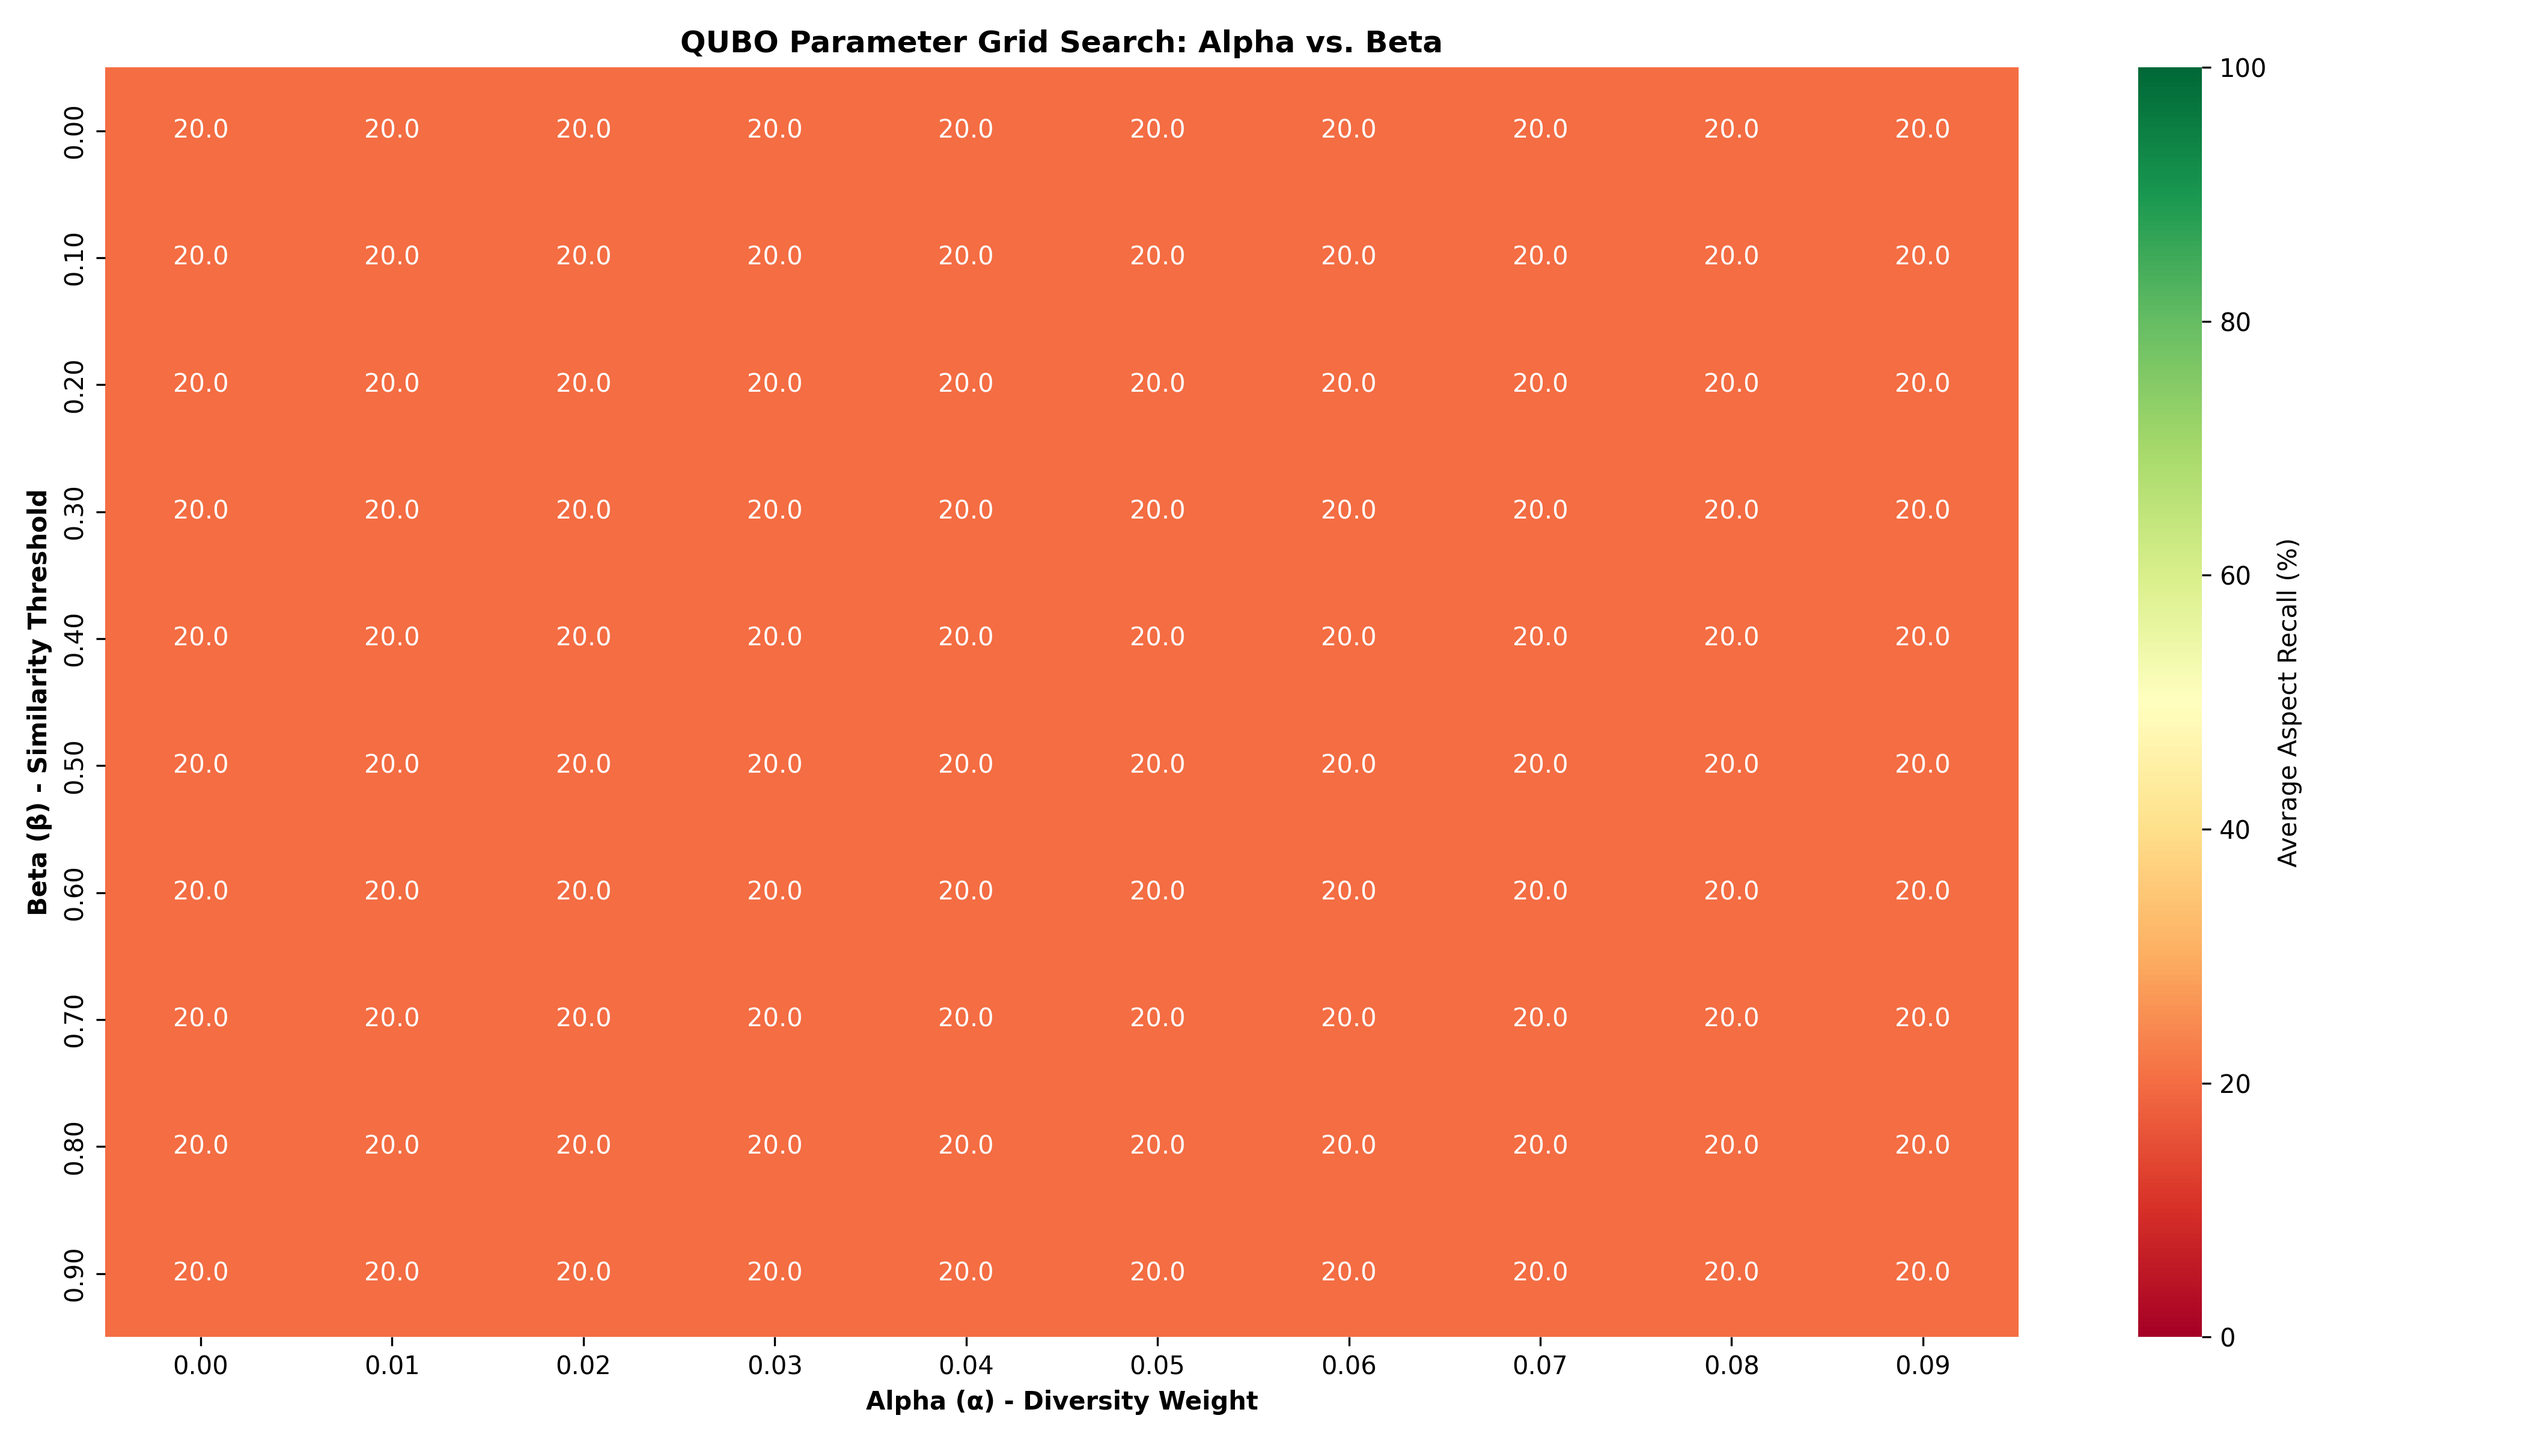
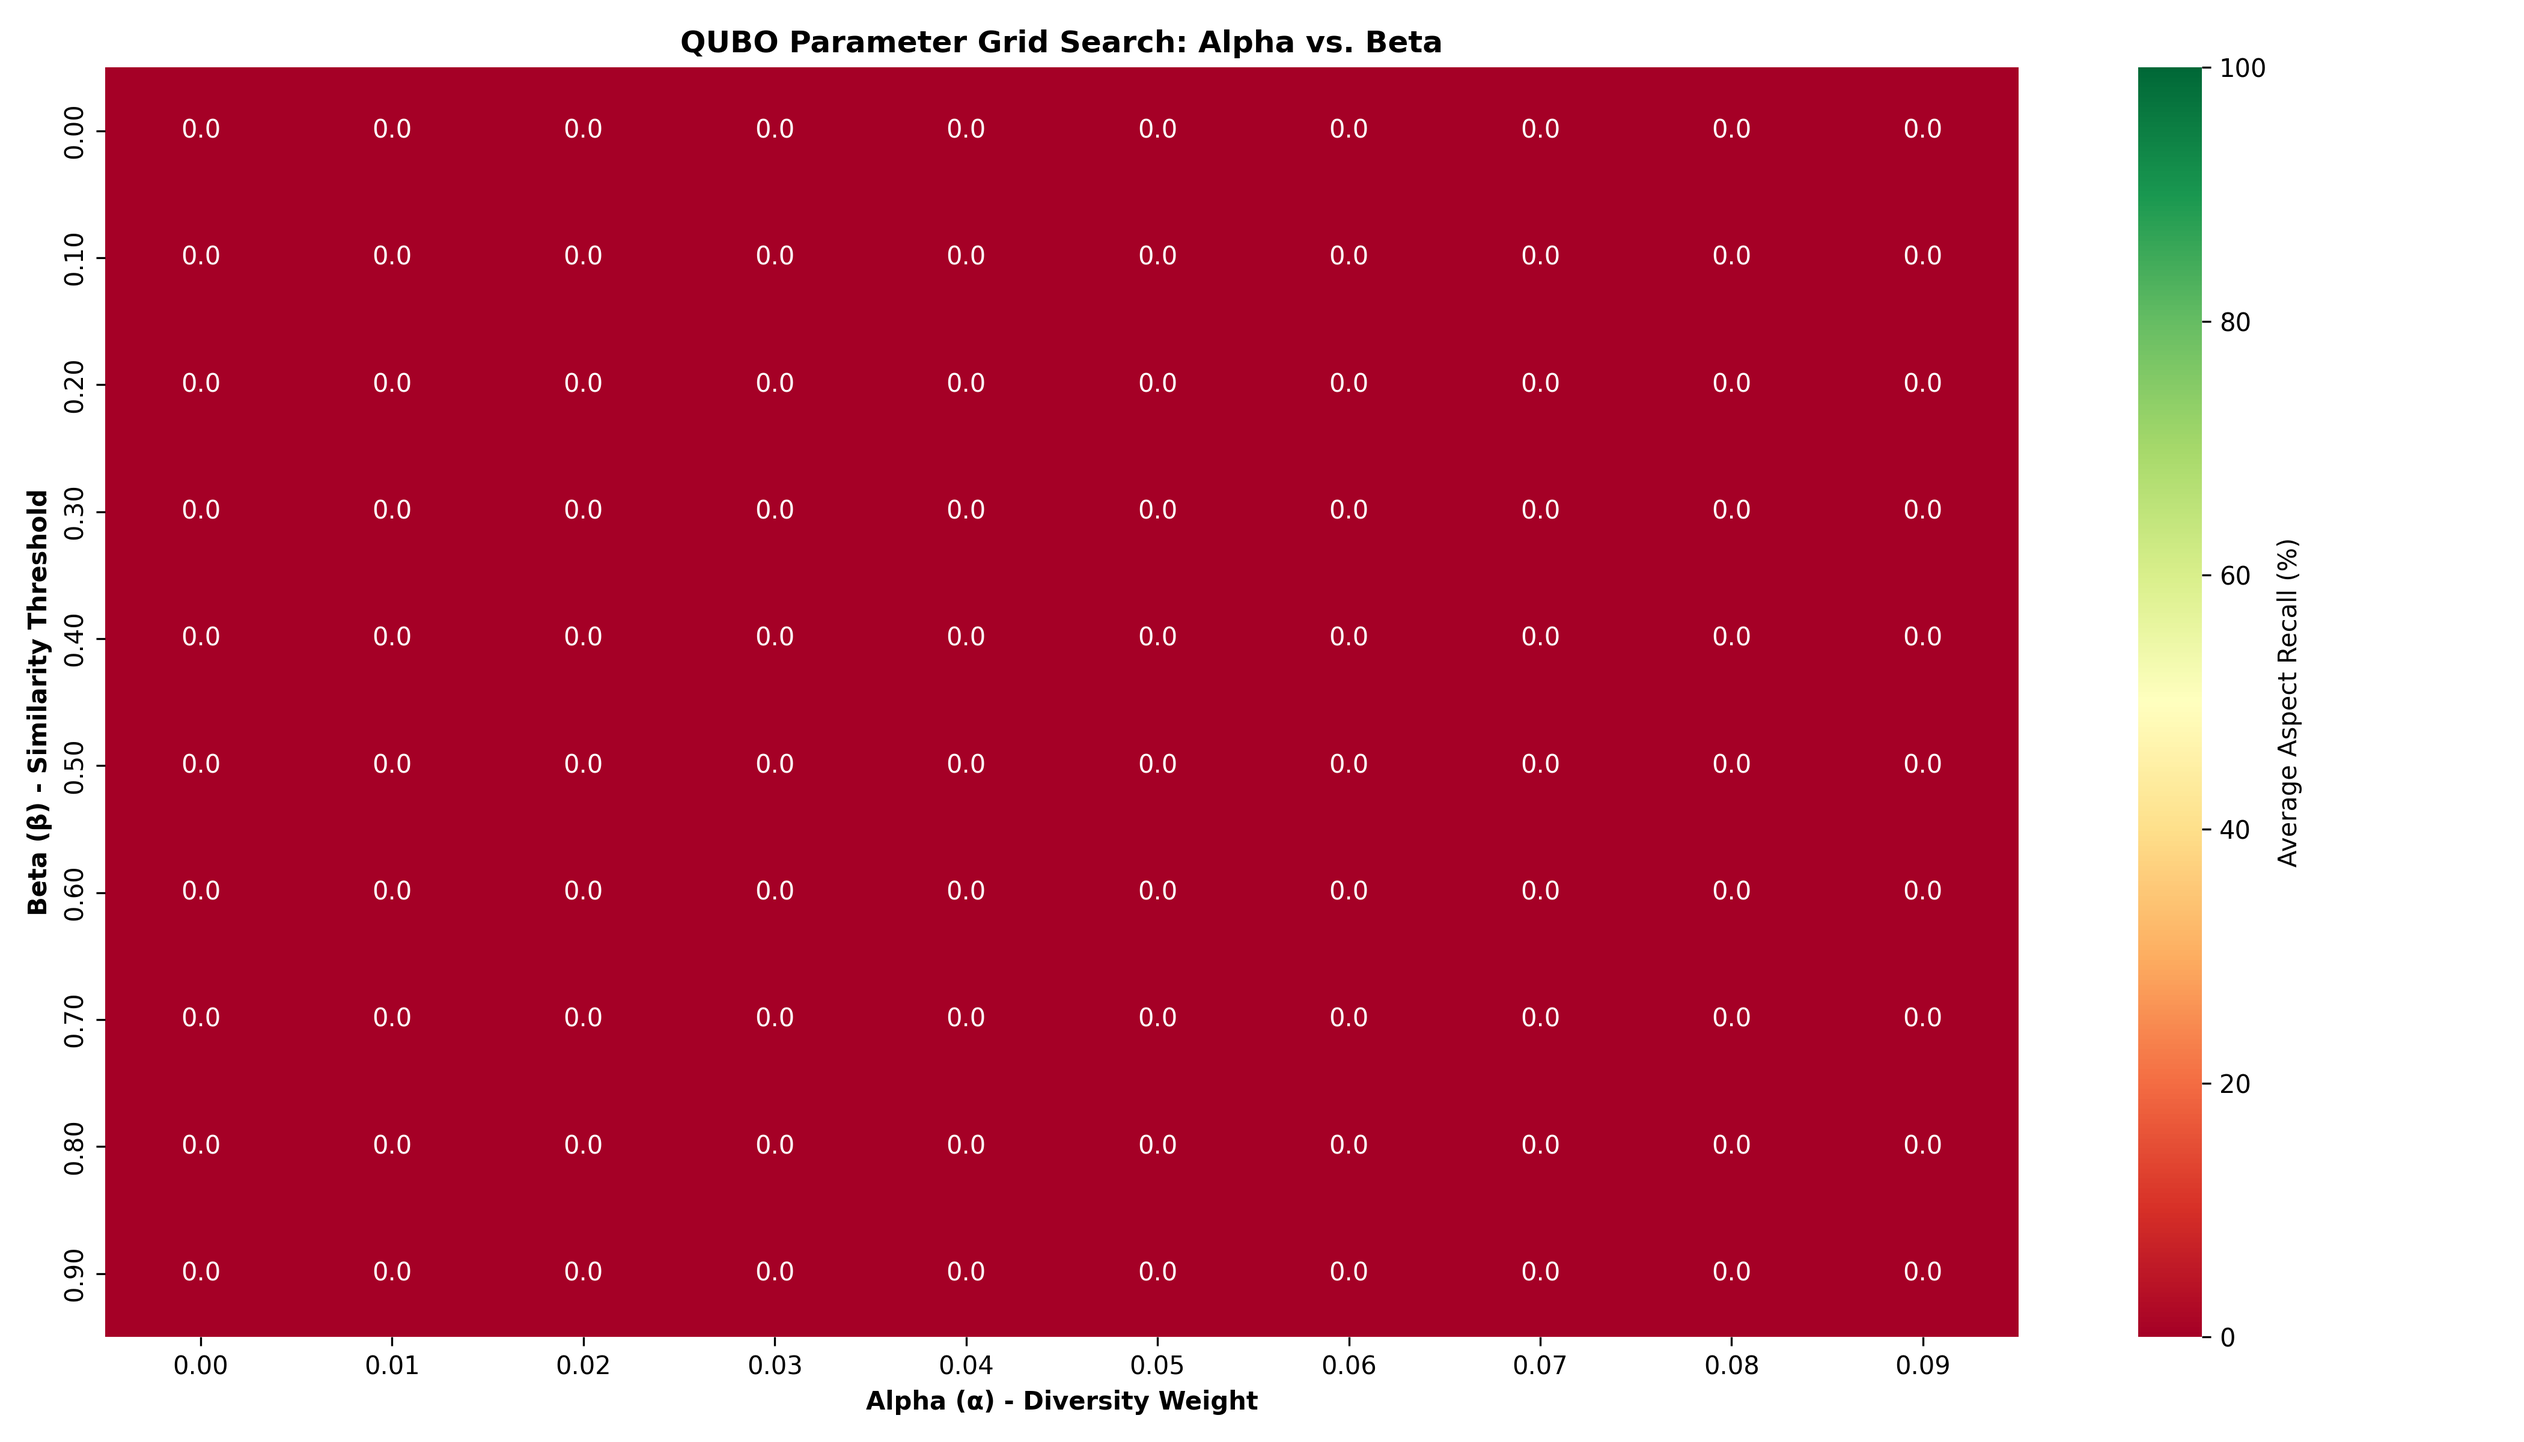
Fix(experiments): Correct recall calculation and finalize beta integration
This commit fixes the recall calculation in the parameter tuning script to correctly handle cases where no results are returned. It also finalizes the integration of the 'beta' parameter across all relevant experiment scripts.

diff --git a/experiments/exp_2_parameter_tuning.py b/experiments/exp_2_parameter_tuning.py
@@ -64,8 +64,10 @@ def evaluate_parameters(
             recall, _ = compute_aspect_recall([r.chunk for r in results], gold_aspects)
             level_recalls.append(recall)
 
-        if not level_recalls: return None
-        total_recalls.extend(level_recalls)
+        if not level_recalls:
+            total_recalls.append(0)
+        else:
+            total_recalls.extend(level_recalls)
 
     return {
         'alpha': alpha,
